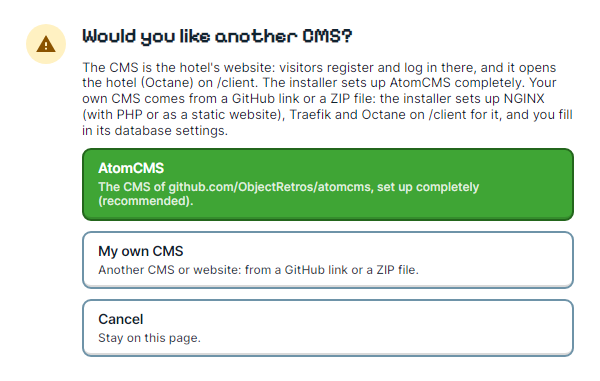
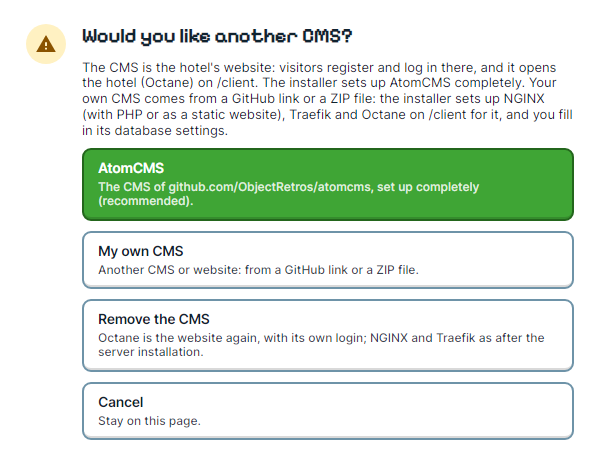
CMS addon: Remove the CMS, back to the server installation's layout
A third choice in Addons -> CMS. Octane goes back to / (no --base,
/configuration/, /habbicons) with its own login screen on again, the
hotel site serves it on / again, every CMS site is disabled, and
Traefik sends /ws and all of /api to Polaris and the rest to NGINX
(hotel.env CMS=none). Tested through Traefik at the end. The CMS' files
stay unless the box to delete them is ticked; its database tables stay.

Octane's login screen is only switched back on by this removal: a normal
Octane run without a CMS leaves the owner's own choice alone.

Claude-Session: https://claude.ai/code/session_01HC7Yhee6EN5e8gtWQR7poM

diff --git a/SourceCode/App/Professional/Views/RemoveCmsStep.cs b/SourceCode/App/Professional/Views/RemoveCmsStep.cs
@@ -1,0 +1,116 @@
+using Avalonia;
+using Avalonia.Controls;
+using Avalonia.Media;
+using AllInOneInstaller.Remote;
+using static AllInOneInstaller.App.Professional.ProfessionalTheme;
+
+namespace AllInOneInstaller.App.Professional.Views;
+
+/// <summary>Removes the CMS (AtomCMS or your own): Octane is the site again, as after the server installation.</summary>
+public sealed class RemoveCmsStep : InstallStep
+{
+    private readonly CheckBox _deleteFiles = new() { Content = "Also delete the CMS' folder and its NGINX site file (cannot be undone)" };
+    private readonly TextBlock _deleteWhat = Text("", 12, "Pro.Subtle");
+
+    /// <summary>Set after a run, for the finished page.</summary>
+    public string? RemovedName { get; private set; }
+    public bool FilesDeleted { get; private set; }
+
+    public override string Title => "Remove the CMS";
+    public override string Caption => "Octane on / again";
+    public override string InstallLabel => "Remove the CMS";
+    public override string RerunLabel => "Set it back again";
+
+    public RemoveCmsStep() : base(Icons.Puzzle,
+        "Remove the CMS",
+        "The hotel goes back to how the server installation set it up: Octane is the website on /, with its own login screen, and the CMS is no longer served.",
+        [
+            "Octane moves back to /: vite without --base, client-mode.json with /configuration/, its own login screen on again, and a rebuild.",
+            $"NGINX: the hotel site serves Octane on / again (127.0.0.1:{HotelSite.Port}); the CMS' own NGINX site is disabled.",
+            "Traefik: /ws and all of /api go to Polaris again, everything else to the hotel site.",
+            "The CMS' files stay unless you tick the box below. Its database tables (such as AtomCMS' website_* tables) and users stay in the hotel database.",
+            "Tests the site, Polaris' /api/health and the websocket through Traefik."
+        ],
+        "The hotel is briefly unavailable while Octane is rebuilt (about a minute).",
+        [
+            "Check the server",
+            "Octane on /: configure and build",
+            "NGINX and Traefik",
+            "Disable the CMS site",
+            "Test the site, /api and /ws"
+        ])
+    {
+    }
+
+    protected override Control BuildOptions()
+    {
+        var panel = new StackPanel { Spacing = 6, Margin = new Thickness(0, 8, 0, 0) };
+        panel.Children.Add(_deleteFiles);
+        panel.Children.Add(_deleteWhat);
+        return panel;
+    }
+
+    // The CMS on the server: its NGINX site name and folder.
+    private static (string SiteName, string Folder)? Cms(WebAccessSettings site) =>
+        site.AtomCms ? (AtomCmsInstaller.SiteName, AtomCmsInstaller.Directory)
+        : site.CustomCms is { } name && CustomCmsInstaller.NameProblem(name) is null ? (name, CustomCmsInstaller.Directory(name))
+        : null;
+
+    protected override async Task<bool> DetectCoreAsync(ServerConnection connection)
+    {
+        AtomCmsState state = await Task.Run(() => AtomCmsInstaller.InspectAsync(connection));
+        if (state.Site is not { } site)
+        {
+            Detected.Show(ResultKind.Warning, "There is no website set up yet", "Run the Web access step first.");
+            return false;
+        }
+        if (!site.HasCms)
+        {
+            _deleteWhat.Text = "";
+            _deleteFiles.IsEnabled = false;
+            Detected.Show(ResultKind.Success, "There is no CMS", $"Octane is the website of {site.Url} already. Running this step anyway sets Octane, NGINX and Traefik back.");
+            return true;
+        }
+        _deleteFiles.IsEnabled = Cms(site) is not null;
+        _deleteWhat.Text = Cms(site) is { } cms ? $"Deletes {cms.Folder} and {CmsSite.File(cms.SiteName)}." : "";
+        Detected.Show(ResultKind.Info, $"{site.CmsName} is the website of {site.Url}",
+            $"After this step Octane is the website on {site.Url}/ again, with its own login screen.");
+        return false;
+    }
+
+    protected override async Task<StepOutcome> RunCoreAsync(ServerConnection connection, Window owner)
+    {
+        Run.Log("> Checking the server ...");
+        AtomCmsState state = await Task.Run(() => AtomCmsInstaller.InspectAsync(connection));
+        if (state.Site is not { } current) throw new ServerConnectionException("Run the Web access step first: there is no website to set back.");
+        if (state.NodeVersion is null) throw new ServerConnectionException("Node.js is missing: run the Dev tools step first (Octane is rebuilt).");
+        if (!state.OctaneBuilt) throw new ServerConnectionException("Octane is not built yet: run the Octane step first.");
+        (string SiteName, string Folder)? cms = Cms(current);
+        bool delete = _deleteFiles.IsChecked == true && cms is not null;
+        WebAccessSettings site = current with { AtomCms = false, CustomCms = null, CmsPort = 0 };
+        Run.Log(current.HasCms ? $"  {current.CmsName} is the website of {current.Url}: setting Octane back on /" : $"  No CMS on {current.Url}: setting Octane, NGINX and Traefik back anyway");
+        Run.Done(current.CmsName ?? "no CMS");
+
+        await Task.Run(() => OctaneInstaller.ConfigureAsync(connection, site, Run.Log, restoreLoginScreen: true));
+        await Task.Run(() => OctaneInstaller.BuildAsync(connection, site, Run.Log));
+        Run.Done(site.ClientUrl);
+
+        // The hotel site serves Octane on / first, then Traefik sends everything there again.
+        await Task.Run(() => OctaneInstaller.PublishAsync(connection, site, Run.Log));
+        await Task.Run(() => WebAccessInstaller.ConfigureRoutesAsync(connection, site, Run.Log));
+        Run.Done("Octane on /");
+
+        await Task.Run(() => CmsSite.RemoveAsync(connection, cms?.SiteName, delete ? cms?.Folder : null, Run.Log));
+        Run.Done(delete ? "disabled and deleted" : "disabled, files kept");
+
+        WebAccessResult result = await Task.Run(() => WebAccessInstaller.TestAsync(connection, site, Run.Log));
+        Run.Done(result.ApiAnswered ? "OK" : "site OK, check /api");
+
+        RemovedName = current.CmsName;
+        FilesDeleted = delete;
+        string files = cms is null ? "" : delete ? $" {cms.Value.Folder} is deleted." : $" Its files stay in {cms.Value.Folder}.";
+        return await SucceededAsync($"Octane is the website of {site.Url} again",
+            (current.HasCms ? $"{current.CmsName} is removed.{files} " : "") +
+            "Octane has its own login screen again; Traefik and NGINX are as after the server installation. Install a CMS again with Addons → CMS.");
+    }
+}

diff --git a/SourceCode/App/Professional/Views/InstallerWindow.cs b/SourceCode/App/Professional/Views/InstallerWindow.cs
@@ -50,6 +50,7 @@ public sealed class InstallerWindow : Window
     private readonly ServerWizard _wizard;
     private readonly ServerWizard _atomWizard;
     private readonly ServerWizard _customCmsWizard;
+    private readonly ServerWizard _removeCmsWizard;
     private readonly ServerWizard _deployWizard;
     private readonly AssetExplorerView _explorer;
     private readonly SqlEditorView _sqlEditor;
@@ -73,10 +74,10 @@ public sealed class InstallerWindow : Window
     private readonly DispatcherTimer _watch = new() { Interval = TimeSpan.FromSeconds(3) };
     private ServerConnection? Session => _session is { IsConnected: true } session ? session : null;
 
-    private ServerWizard[] Wizards => [_wizard, _atomWizard, _customCmsWizard, _deployWizard];
+    private ServerWizard[] Wizards => [_wizard, _atomWizard, _customCmsWizard, _removeCmsWizard, _deployWizard];
     private bool AnyBusy => _toolsBusy || Wizards.Any(w => w.IsBusy);
     // The wizard on screen, whose status line the footer shows.
-    private ServerWizard? CurrentWizard => _page switch { Page.Install => _wizard, Page.AtomCms => _atomWizard, Page.CustomCms => _customCmsWizard, Page.DeployAssets => _deployWizard, _ => null };
+    private ServerWizard? CurrentWizard => _page switch { Page.Install => _wizard, Page.AtomCms => _atomWizard, Page.CustomCms => _customCmsWizard, Page.RemoveCms => _removeCmsWizard, Page.DeployAssets => _deployWizard, _ => null };
 
     public InstallerWindow()
     {
@@ -100,6 +101,10 @@ public sealed class InstallerWindow : Window
             (host, _, site, _, steps) => FinishedView.BuildCustomCms(site, customCmsStep.CmsName, customCmsStep.CmsRoot, customCmsStep.CmsUsesPhp,
                 ClientConfiguration.LoadDatabaseCredentials(host), host, steps),
             "Database settings", keyStep: false);
+        var removeCmsStep = new RemoveCmsStep();
+        _removeCmsWizard = new ServerWizard(() => Session, [removeCmsStep],
+            (_, _, site, _, steps) => FinishedView.BuildRemoveCms(site, removeCmsStep.RemovedName, removeCmsStep.FilesDeleted, steps),
+            "Octane on /", keyStep: false);
         var syncStep = new AssetSyncStep();
         var textsStep = new UiTextsStep();
         var emulatorAssetsStep = new EmulatorAssetsStep();
@@ -239,6 +244,7 @@ public sealed class InstallerWindow : Window
             case Page.Install: ShowInstallNewServer(); break;
             case Page.AtomCms: ShowAtomCmsWizard(); break;
             case Page.CustomCms: ShowCustomCmsWizard(); break;
+            case Page.RemoveCms: ShowRemoveCmsWizard(); break;
             case Page.DeployAssets: ShowDeployAssets(); break;
             case Page.AssetExplorer: ShowAssetExplorer(); break;
             case Page.SqlEditor: ShowSqlEditor(); break;
@@ -466,7 +472,7 @@ public sealed class InstallerWindow : Window
         _pageScroll.Offset = default;
     }
 
-    private enum Page { Dashboard, Install, AtomCms, CustomCms, DeployAssets, AssetExplorer, SqlEditor, Debug, Tools, ServerStatus, EmulatorMonitor, Terminal, Settings, About }
+    private enum Page { Dashboard, Install, AtomCms, CustomCms, RemoveCms, DeployAssets, AssetExplorer, SqlEditor, Debug, Tools, ServerStatus, EmulatorMonitor, Terminal, Settings, About }
     private Page _page;
 
     private void RefreshHeader()
@@ -480,6 +486,7 @@ public sealed class InstallerWindow : Window
                 : $"The full hotel stack on {host}: an SSH key for root first, then every part of the hotel."),
             Page.AtomCms => ("AtomCMS", "Addon: AtomCMS as the hotel's website, Octane on /client."),
             Page.CustomCms => ("Your own CMS", "Addon: your own CMS as the hotel's website, Octane on /client."),
+            Page.RemoveCms => ("Remove the CMS", "Addon: Octane as the hotel's website again, as after the server installation."),
             Page.AssetExplorer => ("Asset Explorer", session is null
                 ? $"Addon: manage the files in {OctaneInstaller.Gamedata}, with this computer next to it."
                 : $"This computer on the left, {host}:{GamedataFiles.Root} on the right."),
@@ -561,13 +568,14 @@ public sealed class InstallerWindow : Window
     }
 
     private void ShowInstallNewServer() => ShowWizard(Page.Install, _installNavigation, _wizard);
-    private enum CmsChoice { Atom, Custom }
+    private enum CmsChoice { Atom, Custom, Remove }
 
     /// <summary>Addons → CMS: AtomCMS or your own CMS first, unless one of them is running.</summary>
     private async void ShowCms()
     {
         if (_atomWizard.IsBusy) { ShowAtomCmsWizard(); return; }
         if (_customCmsWizard.IsBusy) { ShowCustomCmsWizard(); return; }
+        if (_removeCmsWizard.IsBusy) { ShowRemoveCmsWizard(); return; }
         CmsChoice? choice = await ChoiceDialog.ShowAsync<CmsChoice?>(this, "CMS", "Would you like another CMS?",
             "The CMS is the hotel's website: visitors register and log in there, and it opens the hotel (Octane) on /client. " +
             "The installer sets up AtomCMS completely. Your own CMS comes from a GitHub link or a ZIP file: the installer sets up NGINX " +
@@ -575,13 +583,16 @@ public sealed class InstallerWindow : Window
             null,
             new ChoiceDialog.Option<CmsChoice?>("AtomCMS", "The CMS of github.com/ObjectRetros/atomcms, set up completely (recommended).", CmsChoice.Atom, Primary: true),
             new ChoiceDialog.Option<CmsChoice?>("My own CMS", "Another CMS or website: from a GitHub link or a ZIP file.", CmsChoice.Custom),
+            new ChoiceDialog.Option<CmsChoice?>("Remove the CMS", "Octane is the website again, with its own login; NGINX and Traefik as after the server installation.", CmsChoice.Remove),
             new ChoiceDialog.Option<CmsChoice?>("Cancel", "Stay on this page.", null));
         if (choice == CmsChoice.Atom) ShowAtomCmsWizard();
         else if (choice == CmsChoice.Custom) ShowCustomCmsWizard();
+        else if (choice == CmsChoice.Remove) ShowRemoveCmsWizard();
     }
 
     private void ShowAtomCmsWizard() => ShowWizard(Page.AtomCms, _atomNavigation, _atomWizard);
     private void ShowCustomCmsWizard() => ShowWizard(Page.CustomCms, _atomNavigation, _customCmsWizard);
+    private void ShowRemoveCmsWizard() => ShowWizard(Page.RemoveCms, _atomNavigation, _removeCmsWizard);
     private void ShowDeployAssets() => ShowWizard(Page.DeployAssets, _deployNavigation, _deployWizard);
 
     // The wizard asks for a login when there is none, starts for a new login, or shows the step where it was.

diff --git a/SourceCode/Remote/OctaneInstaller.cs b/SourceCode/Remote/OctaneInstaller.cs
@@ -113,14 +113,16 @@ public static class OctaneInstaller
     /// Creates missing .json files from .example and sets the URL keys, backing up existing files first. Also
     /// creates the asset folders they reference.
     /// </summary>
-    public static Task ConfigureAsync(ServerConnection connection, WebAccessSettings site, Action<string> log, CancellationToken token = default)
+    /// <param name="restoreLoginScreen">After removing a CMS: Octane's own login screen on again.</param>
+    public static Task ConfigureAsync(ServerConnection connection, WebAccessSettings site, Action<string> log, CancellationToken token = default,
+        bool restoreLoginScreen = false)
     {
         string script = RemoteScript.Prelude + $$"""
             {{Environment}}
             # The emulator's timezone (config.ini) for timezone.settings in a new renderer-config.json.
             tz=$(grep -oE 'serverTimezone=[^&[:space:]]+' {{EmulatorInstaller.Directory}}/config.ini 2>/dev/null | head -1 | cut -d= -f2)
             echo "> {{ConfigurationDirectory}}: {{string.Join(", ", ConfigurationFiles.Select(f => f + ".json"))}}"
-            SITE_URL='{{site.Url}}' CLIENT_URL='{{site.ClientUrl}}' CLIENT_PATH='{{site.ClientPath}}' ATOM='{{(site.HasCms ? "yes" : "")}}' SOCKET_URL='{{SocketUrl(site)}}' CONFIG_DIR='{{ConfigurationDirectory}}' GAMEDATA_DIR='{{Gamedata}}' \
+            SITE_URL='{{site.Url}}' CLIENT_URL='{{site.ClientUrl}}' CLIENT_PATH='{{site.ClientPath}}' ATOM='{{(site.HasCms ? "yes" : "")}}' LOGIN_SCREEN='{{(restoreLoginScreen && !site.HasCms ? "yes" : "")}}' SOCKET_URL='{{SocketUrl(site)}}' CONFIG_DIR='{{ConfigurationDirectory}}' GAMEDATA_DIR='{{Gamedata}}' \
               FILES='{{string.Join(' ', ConfigurationFiles)}}' TIMEZONE="$tz" node - <<'JS'
             {{ConfigureScript}}
             JS
@@ -195,7 +197,7 @@ public static class OctaneInstaller
     private const string ConfigureScript = """
         const fs = require('fs');
         const path = require('path');
-        const { SITE_URL: site, CLIENT_URL: client, CLIENT_PATH: clientPath, ATOM: atom, SOCKET_URL: socket, CONFIG_DIR: dir, GAMEDATA_DIR: gamedata, TIMEZONE: timezone } = process.env;
+        const { SITE_URL: site, CLIENT_URL: client, CLIENT_PATH: clientPath, ATOM: atom, LOGIN_SCREEN: loginScreen, SOCKET_URL: socket, CONFIG_DIR: dir, GAMEDATA_DIR: gamedata, TIMEZONE: timezone } = process.env;
 
         // Always set: the hotel's URLs. Only in a file created from the .example: the folder layout and modes.
         const urls = {
@@ -211,8 +213,9 @@ public static class OctaneInstaller
                 'group.badge.url': '%imagerdata%',
                 // Octane's own public/habbicons, so under /client/ with AtomCMS.
                 'habbicons.asset.root': `${clientPath}habbicons`,
-                // With AtomCMS the CMS logs in and opens the client with an SSO ticket.
-                ...(atom ? { 'login.screen.enabled': false } : {})
+                // With a CMS the CMS logs in and opens the client with an SSO ticket. Without one again (the CMS was
+                // removed), Octane's own login screen comes back.
+                ...(atom ? { 'login.screen.enabled': false } : loginScreen ? { 'login.screen.enabled': true } : {})
             },
             'ui-config': {
                 'camera.url': `${site}/gamedata/camera`,

diff --git a/SourceCode/Remote/CmsSite.cs b/SourceCode/Remote/CmsSite.cs
@@ -132,6 +132,40 @@ public static class CmsSite
         echo "PORT=$port"
         """;
 
+    /// <summary>
+    /// Disables every CMS site (the hotel site then is the only one), and with <paramref name="deleteFolder"/> deletes that
+    /// CMS' folder and NGINX site file. Reloads NGINX once nginx -t accepts it.
+    /// </summary>
+    public static Task RemoveAsync(ServerConnection connection, string? siteName, string? deleteFolder, Action<string> log, CancellationToken token = default)
+    {
+        string delete = deleteFolder is null || siteName is null ? "" : $$"""
+            d={{ServerConnection.ShellQuote(deleteFolder)}}
+            case "$d" in /var/www/?*) ;; *) fail "Refusing to delete $d: not a folder in /var/www." ;; esac
+            if [ -d "$d" ]; then
+              echo "> Deleting $d ($(du -sh "$d" | cut -f1))"
+              rm -rf -- "$d"
+            fi
+            rm -f {{File(siteName)}}
+            echo "  {{File(siteName)}} deleted"
+            """;
+        string script = RemoteScript.Prelude + $$"""
+            off=0
+            for s in /etc/nginx/sites-enabled/cms-*; do
+              [ -e "$s" ] || [ -L "$s" ] || continue
+              rm -f "$s"
+              off=$((off + 1))
+              echo "> $(basename "$s") disabled: NGINX no longer serves it"
+            done
+            [ $off -gt 0 ] || echo "  No CMS site was enabled"
+            {{delete}}
+            nginx -t 2>&1 | sed 's/^/  /'
+            nginx -t >/dev/null 2>&1 || fail "nginx -t refuses the configuration (see above)."
+            if [ -d /run/systemd/system ]; then systemctl reload nginx || systemctl restart nginx; else nginx -s reload 2>/dev/null || service nginx restart; fi
+            echo "  NGINX reloaded"
+            """;
+        return RemoteScript.RunAsync(connection, script, log, "Removing the CMS site failed", token);
+    }
+
     /// <summary>Runs <see cref="WriteScript"/>; returns the port.</summary>
     public static async Task<int> ApplyAsync(ServerConnection connection, WebAccessSettings site, string name, string root, bool php,
         Action<string> log, CancellationToken token = default)

diff --git a/SourceCode/App/Professional/Views/FinishedView.cs b/SourceCode/App/Professional/Views/FinishedView.cs
@@ -150,6 +150,27 @@ public static class FinishedView
         return page;
     }
 
+    /// <summary>Last page of Remove the CMS.</summary>
+    public static Control BuildRemoveCms(WebAccessSettings? site, string? removed, bool filesDeleted, IReadOnlyList<(string Title, StepSummary Result)> steps)
+    {
+        var page = new StackPanel { Spacing = 18 };
+        bool clean = steps.All(s => s.Result is StepSummary.Done or StepSummary.AlreadyInstalled);
+        var banner = new ResultBanner();
+        banner.Show(clean ? ResultKind.Success : ResultKind.Warning,
+            clean ? $"Octane is the website of {site?.Url ?? "your hotel"} again" : "The CMS was not removed",
+            clean
+                ? (removed is null ? "" : $"{removed} is removed{(filesDeleted ? " and its files are deleted" : "; its files stay on the server")}. ") +
+                  "Octane has its own login screen again, and NGINX and Traefik are as after the server installation."
+                : "Run the step again (see the step for what went wrong).");
+        page.Children.Add(banner);
+        page.Children.Add(StepList(steps));
+        var later = new StackPanel { Spacing = 6 };
+        later.Children.Add(Text("The CMS' tables and its users stay in the hotel database. Players log in on Octane's own login screen now.", 13));
+        later.Children.Add(Text("A CMS again: Addons → CMS.", 13));
+        page.Children.Add(Section("Next", later));
+        return page;
+    }
+
     /// <summary>The database login the server installation made for a CMS (configuration/database/&lt;server&gt;/mariadb.txt).</summary>
     public static Control CmsDatabaseLogin(DatabaseCredentials? credentials, string host)
     {

diff --git a/README.md b/README.md
@@ -694,8 +694,9 @@ returns to the dashboard and keeps the login (and the SQL Editor's database conn
 
 ### CMS
 
-**Addons → CMS** first asks **Would you like another CMS?**: **AtomCMS** (set up completely, below) or **My own
-CMS** (from a GitHub link or a ZIP file, see [Your own CMS](#your-own-cms)). Both work the same way for the hotel: the
+**Addons → CMS** first asks **Would you like another CMS?**: **AtomCMS** (set up completely, below), **My own
+CMS** (from a GitHub link or a ZIP file, see [Your own CMS](#your-own-cms)) or **Remove the CMS** (see
+[Removing the CMS](#removing-the-cms)). Both work the same way for the hotel: the
 CMS is the website and Octane moves to **/client**, and both need a finished server installation. One CMS is the
 website at a time; switching keeps the other one's files.
 
@@ -801,6 +802,20 @@ database, the user and its password, from `configuration/database/<server>/maria
 CMS needs (`composer install`, `npm run build`) run in **Tools → SSH terminal**, in the CMS folder.
 
 ![Your own CMS](docs/screenshots/custom-cms-step.png)
+
+### Removing the CMS
+
+**Addons → CMS → Remove the CMS** sets the hotel back to how the server installation left it:
+
+1. **Octane on /** again: `vite` without `--base`, `client-mode.json` with `<url>/configuration/`,
+   `habbicons.asset.root` back to `/habbicons`, Octane's own **login screen on** again (with a CMS the CMS logs
+   players in, so it was off), and a rebuild. The hotel is unavailable for about a minute while it builds.
+2. **NGINX**: the hotel site on 127.0.0.1:85 serves Octane on `/` again, and every CMS site (`cms-*`) is disabled.
+3. **Traefik**: `/ws` and all of `/api` go to Polaris again, the rest to the hotel site; `hotel.env` gets `CMS=none`.
+4. **Test** through Traefik: the site, Polaris' `/api/health` and the websocket.
+
+The CMS' files stay, unless you tick **Also delete the CMS' folder and its NGINX site file**. Its database tables
+(such as AtomCMS' `website_*` tables) and the users stay in the hotel database. A CMS again: **Addons → CMS**.
 
 ### Deploy Assets
 
@@ -1178,6 +1193,7 @@ SourceCode/
   App/Professional/Views/HardenStep.cs    Harden page
   App/Professional/Views/AtomCmsStep.cs   CMS addon: AtomCMS
   App/Professional/Views/CustomCmsStep.cs CMS addon: your own CMS (GitHub link or ZIP, PHP or static, root folder)
+  App/Professional/Views/RemoveCmsStep.cs CMS addon: remove the CMS, Octane on / again
   App/Professional/Views/AssetSyncStep.cs Deploy Assets page (sync from the All-in-1 downloader)
   App/Professional/Views/UiTextsStep.cs   Deploy Assets page: the client's UI texts (UITexts.jsonc) in a language
   App/Professional/Views/EmulatorAssetsStep.cs  Deploy Assets page: Polaris' images and group badge parts into gamedata
